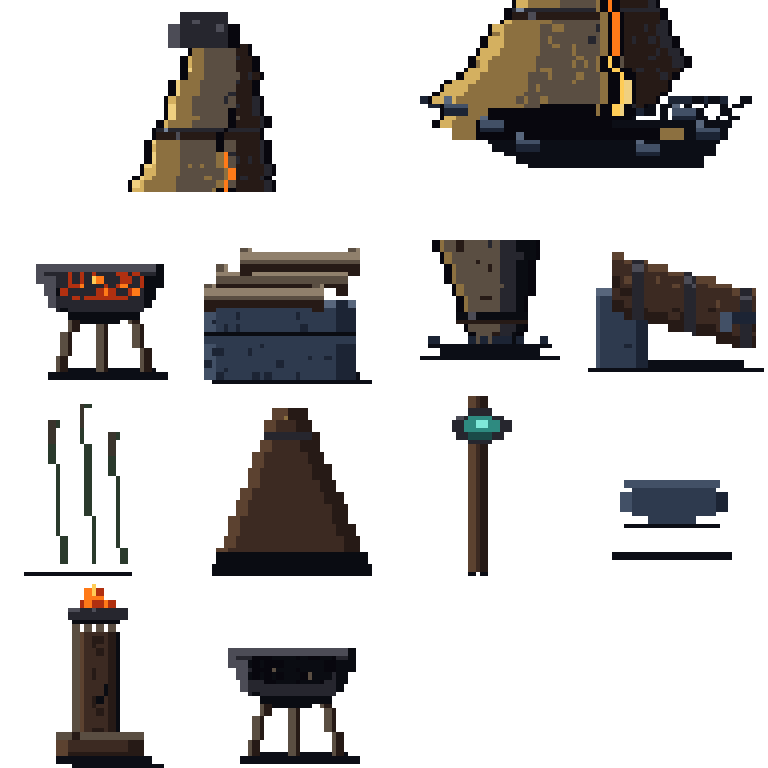
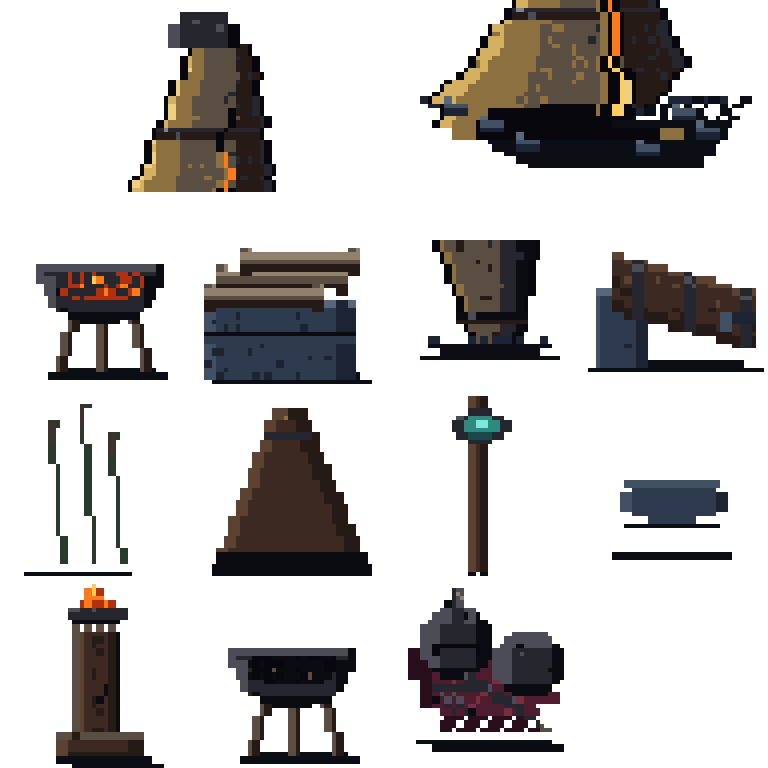
art: leave a veteran at the Bardo landing

Changed region(s): [[0.5312, 0.75, 0.75, 1.0]]

diff --git a/tools/make-bardo-tiles.ts b/tools/make-bardo-tiles.ts
@@ -1030,6 +1030,75 @@ function brazierCold32(): Uint8Array {
   return d
 }
 
+// The Veteran nobody carried home (§8.2.4): empty armour, not a body. A low collapsed triangle
+// undercuts the Keeper's upright column; the split helm crest and diagonal broken scabbard make the
+// silhouette legible in solid black. Wine cloth owns the ground, iron owns the weight, and two tiny
+// bone catches mark the split crest and broken end. No gold: this is a death, not a crossing.
+function veteranRelic32(): Uint8Array {
+  const { d, set, pixel } = make32()
+  // Contact shadow: hard, south and slightly right (§3.2.8), kept inside the cell.
+  for (let x = 5; x <= 27; x++) set(x, 27, P.grout)
+  for (let x = 8; x <= 29; x++) set(x, 28, P.mortar)
+
+  // Torn mantle under every piece. An asymmetric stepped mass, never a rectangular mat.
+  for (let y = 12; y <= 25; y++) {
+    const left = y < 17 ? 4 : y < 22 ? 6 : 9
+    const right = y < 16 ? 24 : y < 21 ? 28 : 25
+    for (let x = left; x <= right; x++) {
+      const torn = (y >= 23 && (x + y) % 4 === 0) || (x === right && y % 3 === 0)
+      if (!torn) set(x, y, x < 8 || y > 22 ? P.purple0 : (x + y) % 7 === 0 ? P.purple2 : P.purple1)
+    }
+  }
+
+  // Dented helm, tipped toward the viewer. The empty slit is the void — identity left behind.
+  for (let y = 5; y <= 16; y++) for (let x = 6; x <= 17; x++) {
+    const dx = (x - 11.5) / 6.2, dy = (y - 10.5) / 6.1
+    if (dx * dx + dy * dy > 1) continue
+    let col: C = P.iron
+    if (x <= 8 || y <= 7) col = P.ironHi
+    if (x >= 15 || y >= 15) col = P.mortar
+    set(x, y, col)
+  }
+  for (let x = 8; x <= 15; x++) set(x, 11, P.void)
+  set(8, 12, P.void); set(15, 12, P.void)
+  for (let y = 2; y <= 8; y++) { set(11, y, P.iron); set(12, y, y < 5 ? P.ironHi : P.iron) }
+  set(10, 4, P.mortar); set(13, 6, P.mortar)                 // the crest is split, not ceremonial
+
+  // One collapsed shoulder plate, rotated away from the helm; its chipped outer rim catches north.
+  for (let y = 9; y <= 19; y++) for (let x = 18; x <= 29; x++) {
+    const dx = (x - 23.5) / 6.4, dy = (y - 14) / 5.6
+    if (dx * dx + dy * dy > 1) continue
+    let col: C = P.iron
+    if (x <= 20 || y <= 11) col = P.ironHi
+    if (x >= 28 || y >= 18) col = P.mortar
+    set(x, y, col)
+  }
+  set(21, 11, P.mortar); set(22, 11, P.mortar); set(27, 15, P.mortar)
+
+  // The gauntlet is a small clenched fan below the helm, five fingers with gaps rather than a blob.
+  for (let x = 8; x <= 14; x++) set(x, 18, P.iron)
+  for (let i = 0; i < 4; i++) {
+    set(9 + i, 19 + (i & 1), P.ironHi)
+    set(10 + i, 21 + (i & 1), P.iron)
+  }
+  set(8, 20, P.mortar); set(14, 22, P.mortar)
+
+  // Broken scabbard crosses the pile and points out of it. Extremes touch along its worn spine.
+  for (let i = 0; i < 14; i++) {
+    const x = 13 + i, y = 17 + Math.floor(i * 0.62)
+    set(x, y, P.iron)
+    if (i < 10) set(x, y - 1, i % 4 === 0 ? P.ironHi : P.iron)
+  }
+  set(26, 25, P.boneLo); set(27, 25, P.boneLo)
+
+  // True 48px-source nicks: single final pixels the stable logical scaffold could not express.
+  pixel(18, 4, P.boneDim); pixel(19, 5, P.boneDim)              // crest catch: identity at 1x
+  pixel(13, 10, P.ironHi); pixel(14, 10, P.ironHi)
+  pixel(32, 17, P.ironHi); pixel(34, 19, P.ironHi)
+  pixel(19, 31, P.ironHi); pixel(39, 37, P.boneLo)
+  return d
+}
+
 function pan32(): Uint8Array {
   const { d, set } = make32()
   for (let x = 6; x < 26; x++) set(x, 28, P.grout)
@@ -1048,7 +1117,7 @@ const props32 = [
   bellCells[0], bellCells[1], bellCells[2], bellCells[3],
   brazier32(), ossuary32(), shard32(), pew32(),
   reed32(), prow32(), pole32(), pan32(),
-  keeperLamp32(), brazierCold32(),
+  keeperLamp32(), brazierCold32(), veteranRelic32(),
 ]
 const pRows = Math.ceil(props32.length / PCOLS)
 const pSheet = Buffer.alloc(PCOLS * PROP_CELL * pRows * PROP_CELL * 4)

diff --git a/src/sim/arena.ts b/src/sim/arena.ts
@@ -33,7 +33,7 @@ export const PROP = {
   bellNW: 0, bellNE: 1, bellSW: 2, bellSE: 3,
   brazier: 4, ossuary: 5, shard: 6, pew: 7,
   reed: 8, prow: 9, pole: 10, pan: 11,
-  keeperLamp: 12, brazierCold: 13,
+  keeperLamp: 12, brazierCold: 13, veteranRelic: 14,
 } as const
 
 export type RoomKind = 'bardo' | 'threshold' | 'crossing' | 'shore'
@@ -610,7 +610,9 @@ function buildBardo(rng: Rng): Arena {
   // focal object (§8.4.6): it carries the one fire still kept, takes the key, occludes, casts.
   // Same solid cells as ever; only what stands on them changed.
   furniture(28, 28, PROP.brazierCold)
-  furniture(29, 31, PROP.ossuary)
+  // The concept's fallen knight, translated without a corpse: empty Veteran iron and a torn mantle.
+  // It replaces the generic ossuary on the same hard cell, so the story changes and collision does not.
+  furniture(29, 31, PROP.veteranRelic)
   furniture(37, 28, PROP.pew)
   furniture(39, 30, PROP.keeperLamp)
   // FORGE: the Smith's ground; the forge fire has a body, and quenched slag sits by the west wall.

diff --git a/tests/sim/dress.test.ts b/tests/sim/dress.test.ts
@@ -86,6 +86,8 @@ describe('first-gate dress', () => {
     const bardo = buildArena(new Rng(1), 'bardo')
     const before = overlayKeys(bardo)
     const n = bardo.props.length
+    expect(bardo.props.some(p => p.sheet === 'prop' && p.tile === PROP.veteranRelic)).toBe(true)
+    expect(bardo.props.some(p => p.sheet === 'prop' && p.tile === PROP.ossuary)).toBe(false)
     dressArena(bardo, 'bardo')
     expect(overlayKeys(bardo)).toBe(before)
     expect(bardo.props.length).toBe(n)
